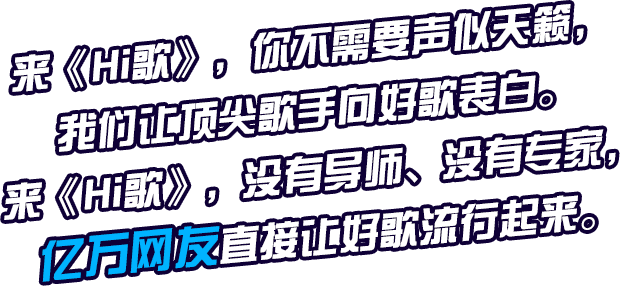
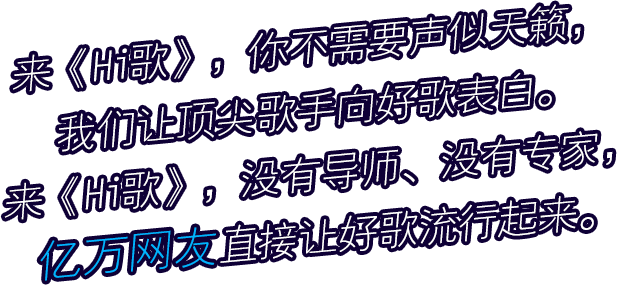
update new txt 2

diff --git a/css/css.css b/css/css.css
@@ -224,14 +224,14 @@ body{width: 100%;height: 100%;font-family: inherit;background: #0e0036;}
 	margin-left: -184px;margin-top: -36px;
 }
 #page_2 .txtbg{
-	position: absolute;width: 560px;height: 324px;
+	position: absolute;width: 560px;height: 284px;
 	left:50%;top:50%;
 	margin-left: -293px;margin-top: -433px;
 }
 #page_2 .txt1{
-	position: absolute;width: 620px;height: 402px;
+	position: absolute;width: 618px;height: 272px;
 	left:50%;top:50%;
-	margin-left: -303px;margin-top: -449px;
+	margin-left: -310px;margin-top: -344px;
 	-webkit-transform-origin: right center;
 	-moz-transform-origin: right center;
 	-ms-transform-origin: right center;
@@ -281,9 +281,9 @@ body{width: 100%;height: 100%;font-family: inherit;background: #0e0036;}
 	margin-left: -289px;margin-top: -401px;
 }
 #page_3 .txt1{
-	position: absolute;width: 620px;height: 286px;
+	position: absolute;width: 618px;height: 286px;
 	left:50%;top:50%;
-	margin-left: -303px;margin-top: -431px;
+	margin-left: -310px;margin-top: -431px;
 	-webkit-transform-origin: right center;
 	-moz-transform-origin: right center;
 	-ms-transform-origin: right center;
@@ -368,14 +368,34 @@ body{width: 100%;height: 100%;font-family: inherit;background: #0e0036;}
 	transform-origin: center center;
 }
 #page_4 .txtbg{
-	position: absolute;width: 572px;height: 284px;
+	position: absolute;width: 572px;height: 246px;
 	left:50%;top:50%;
 	margin-left: -306px;margin-top: -419px;
 }
 #page_4 .txt1{
-	position: absolute;width: 608px;height: 280px;
+	position: absolute;width: 592px;height: 134px;
 	left:50%;top:50%;
-	margin-left: -300px;margin-top: -310px;
+	margin-left: -303px;margin-top: -210px;
+}
+#page_4 .txt2{
+	position: absolute;width: 252px;height: 84px;
+	left:50%;top:50%;
+	margin-left: -140px;margin-top: -350px;
+	-webkit-transform-origin: center center;
+	-moz-transform-origin: center center;
+	-ms-transform-origin: center center;
+	-o-transform-origin: center center;
+	transform-origin: center center;
+}
+#page_4 .txt3{
+	position: absolute;width: 252px;height: 84px;
+	left:50%;top:50%;
+	margin-left: -131px;margin-top: -272px;
+	-webkit-transform-origin: center center;
+	-moz-transform-origin: center center;
+	-ms-transform-origin: center center;
+	-o-transform-origin: center center;
+	transform-origin: center center;
 }
 
 #page_5 .colorbg{
@@ -424,9 +444,9 @@ body{width: 100%;height: 100%;font-family: inherit;background: #0e0036;}
 	margin-left: -318px;margin-top: -407px;
 }
 #page_5 .txt1{
-	position: absolute;width: 616px;height: 370px;
+	position: absolute;width: 614px;height: 368px;
 	left:50%;top:50%;
-	margin-left: -300px;margin-top: -430px;
+	margin-left: -310px;margin-top: -430px;
 }
 
 #page_6{background: url(../images/bg2.jpg) center center no-repeat;}

diff --git a/script/script.js b/script/script.js
@@ -659,7 +659,7 @@ $Tencent=window.$Tencent || {
 					});
 				$page.find(".txtbg").stop().css({'display':'block','margin-top':-353,'opacity':0})
 					.animate({"opacity":1},500,function(){
-						$page.find(".txt1").css({'display':'block','margin-top':-369,'rotate3d':'0,1,0.1,30deg','opacity':0})
+						$page.find(".txt1").css({'display':'block','margin-top':-344,'rotate3d':'0,1,0.1,30deg','opacity':0})
 							.transition({"rotate3d":"0,1,0,0deg",'opacity':1},800,"easeOutBack");
 					});
 			},600);
@@ -751,7 +751,7 @@ $Tencent=window.$Tencent || {
 					});
 				$page.find(".txtbg").stop().css({'display':'block','margin-top':-339,'opacity':0})
 					.animate({"opacity":1},500,function(){
-						$page.find(".txt1").css({'display':'block','margin-top':-310,'rotate3d':'0,1,0.1,30deg','opacity':0})
+						$page.find(".txt1").css({'display':'block','margin-top':-210,'rotate3d':'0,1,0.1,30deg','opacity':0})
 							.transition({"rotate3d":"0,1,0,0deg",'opacity':1},800,"easeOutBack");
 					});
 				$page.find(".pic1").css({'display':'block','opacity':1,'scale':0,'margin-top':10})
@@ -760,10 +760,14 @@ $Tencent=window.$Tencent || {
 			_.config.timeId.page_4[1]=setTimeout(function(){
 				$page.find(".pic2").css({'display':'block','opacity':1,'scale':0,'margin-top':33})
 					.transition({'scale':1},350,"easeOutQuart");
+				$page.find(".txt3").css({'display':'block','opacity':0,'scale':5,'margin-top':-272})
+					.transition({'scale':1,'opacity':1},550,"easeOutQuart");
 			},800);
 			_.config.timeId.page_4[2]=setTimeout(function(){
 				$page.find(".pic3").css({'display':'block','opacity':1,'scale':0,'margin-top':280})
 					.transition({'scale':1},350,"easeOutQuart");
+				$page.find(".txt2").css({'display':'block','opacity':0,'scale':5,'margin-top':-350})
+					.transition({'scale':1,'opacity':1},550,"easeOutQuart");
 			},1000);
 			_.config.timeId.page_4[3]=setTimeout(function(){
 				$page.find(".pic4").css({'display':'block','opacity':1,'scale':0,'margin-top':81})
@@ -776,7 +780,7 @@ $Tencent=window.$Tencent || {
 			for(var i=0;i<_.config.timeId.page_4.length;i++){
 				clearTimeout(_.config.timeId.page_4[i]);
 			}
-			$page.find(".txtbg,.txt1").stop().animate({"opacity":0},350,function(){
+			$page.find(".txtbg,.txt1,.txt2,.txt3").stop().animate({"opacity":0},350,function(){
 				$(this).css({"display":"none"});
 			});
 			$page.find(".music1,.music2,.music3,.music4,.color,.colorbg,.pic1,.pic2,.pic3,.pic4").stop()

diff --git a/index.html b/index.html
@@ -87,6 +87,8 @@
 		<div class="pic4"><img src="images/pic14.png" /></div>
 		<div class="txtbg"><img src="images/pic11.png" /></div>
 		<div class="txt1"><img src="images/txt7.png" /></div>
+		<div class="txt2"><img src="images/txt9.png" /></div>
+		<div class="txt3"><img src="images/txt10.png" /></div>
 	</div>
 	<div class="page" id="page_5">
 		<div class="colorbg"><img src="images/pic19.png" /></div>
